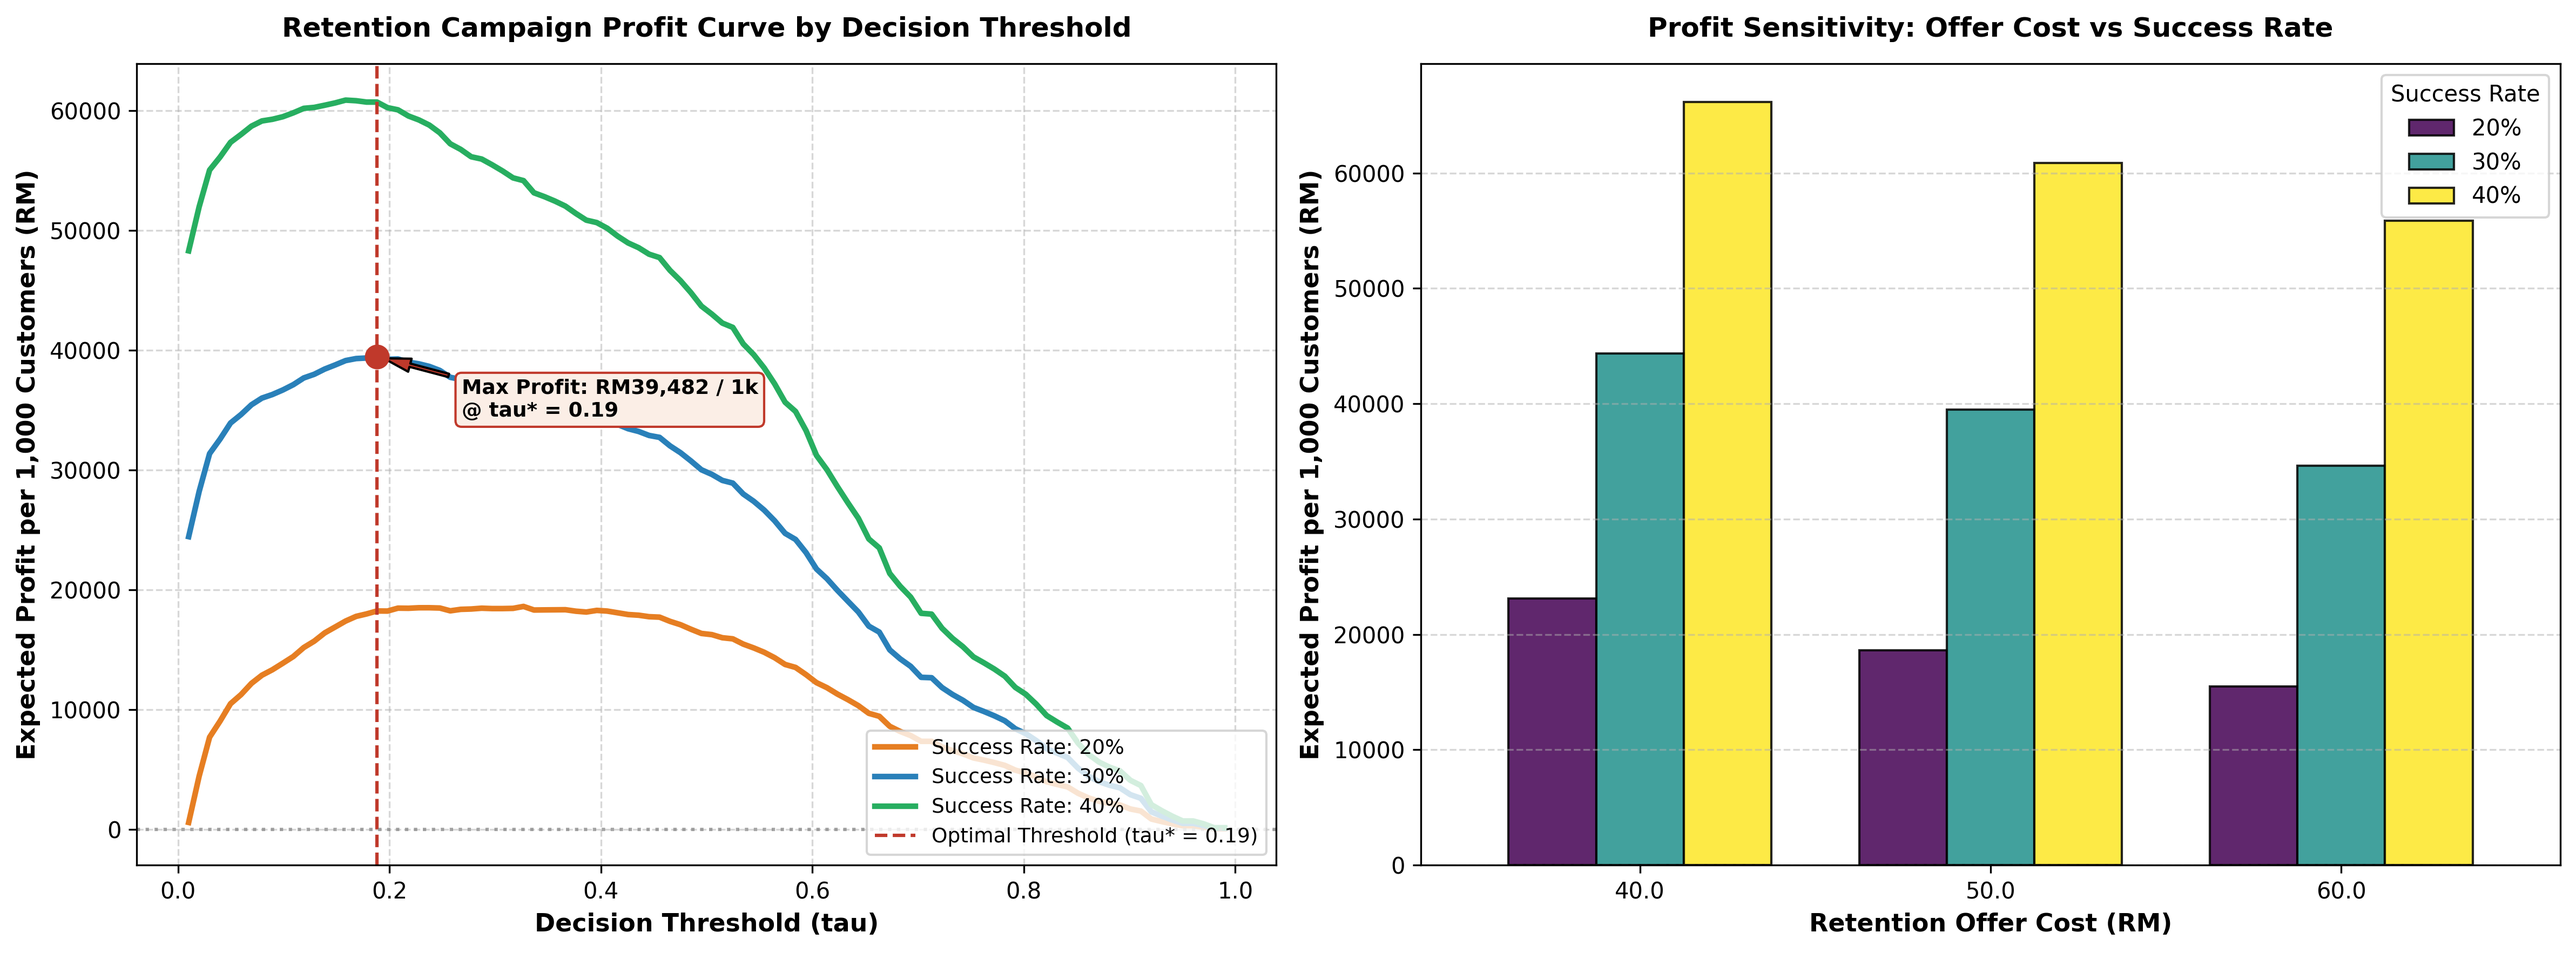
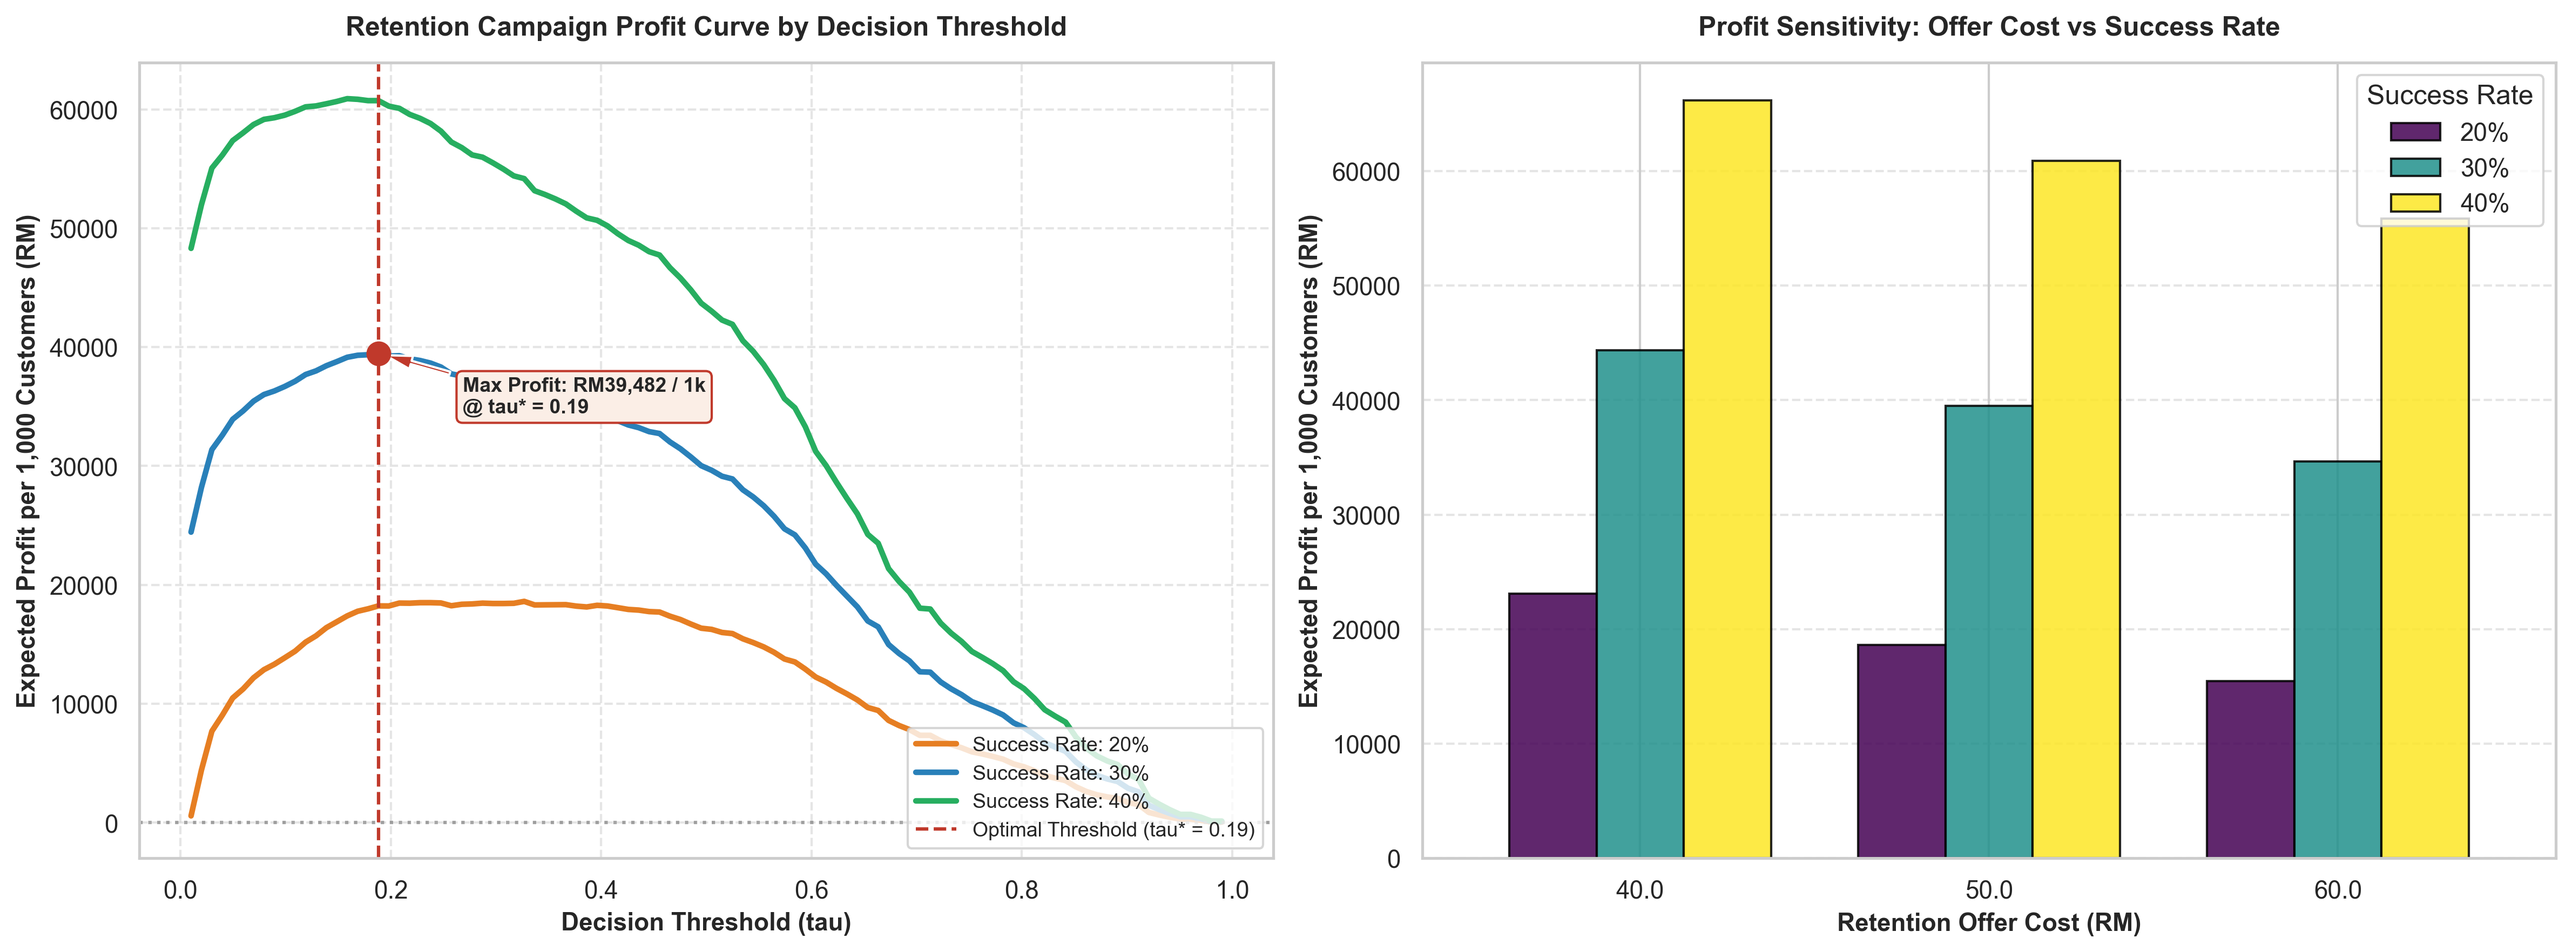
fix(lint): resolve ruff formatting and code quality checks across modules

diff --git a/src/churnguard/models/evaluate_test.py b/src/churnguard/models/evaluate_test.py
@@ -137,7 +137,7 @@ def compute_objectives_verification(
         else Path("reports") / "e11_champion_decision.json"
     )
     if e11_path.exists():
-        with open(e11_path, "r", encoding="utf-8") as f:
+        with open(e11_path, encoding="utf-8") as f:
             e11_data = json.load(f)
         mo1_passed = bool(e11_data.get("mo1_met", False))
         mo1_achieved = e11_data.get("mo1_achieved")
@@ -174,12 +174,10 @@ def compute_objectives_verification(
         m_mask = gender_arr == "Male"
         f_mask = gender_arr == "Female"
         rec_m = float(
-            np.sum((y_pred == 1) & (y_test == 1) & m_mask)
-            / max(np.sum((y_test == 1) & m_mask), 1)
+            np.sum((y_pred == 1) & (y_test == 1) & m_mask) / max(np.sum((y_test == 1) & m_mask), 1)
         )
         rec_f = float(
-            np.sum((y_pred == 1) & (y_test == 1) & f_mask)
-            / max(np.sum((y_test == 1) & f_mask), 1)
+            np.sum((y_pred == 1) & (y_test == 1) & f_mask) / max(np.sum((y_test == 1) & f_mask), 1)
         )
         gender_gap = abs(rec_m - rec_f)
         nfr7_passed = bool(gender_gap <= 0.05)
@@ -193,8 +191,7 @@ def compute_objectives_verification(
         s_mask = senior_arr == 1
         ns_mask = senior_arr == 0
         rec_s = float(
-            np.sum((y_pred == 1) & (y_test == 1) & s_mask)
-            / max(np.sum((y_test == 1) & s_mask), 1)
+            np.sum((y_pred == 1) & (y_test == 1) & s_mask) / max(np.sum((y_test == 1) & s_mask), 1)
         )
         rec_ns = float(
             np.sum((y_pred == 1) & (y_test == 1) & ns_mask)
@@ -403,9 +400,7 @@ def run_final_test_evaluation(
             "precision_at_tau": round(
                 float(precision_score(y_test, ru_pred_tau, zero_division=0)), 4
             ),
-            "recall_at_tau": round(
-                float(recall_score(y_test, ru_pred_tau, zero_division=0)), 4
-            ),
+            "recall_at_tau": round(float(recall_score(y_test, ru_pred_tau, zero_division=0)), 4),
             "f1_at_tau": round(float(f1_score(y_test, ru_pred_tau, zero_division=0)), 4),
             "profit_per_1k_customers_rm": round(
                 float(ru_profit_res["profit_per_1k_customers_rm"]), 2
@@ -429,9 +424,7 @@ def run_final_test_evaluation(
     scored_df["risk_tier"] = scored_df["churn_probability"].apply(assign_tier)
     scored_path = Path(CFG["paths"]["reports_dir"]) / "scored.csv"
     scored_path.parent.mkdir(parents=True, exist_ok=True)
-    scored_df.sort_values(by="churn_probability", ascending=False).to_csv(
-        scored_path, index=False
-    )
+    scored_df.sort_values(by="churn_probability", ascending=False).to_csv(scored_path, index=False)
 
     # Combine into comprehensive report
     final_report = {

diff --git a/src/churnguard/models/calibrate.py b/src/churnguard/models/calibrate.py
@@ -230,7 +230,10 @@ def run_calibration_redesign(
 
     # 4. Pre-registered selection rule
     candidates = {}
-    for name, m, p in [("isotonic", metrics_isotonic, oof_isotonic), ("sigmoid", metrics_sigmoid, oof_sigmoid)]:
+    for name, m, p in [
+        ("isotonic", metrics_isotonic, oof_isotonic),
+        ("sigmoid", metrics_sigmoid, oof_sigmoid),
+    ]:
         pr_drop = metrics_uncal["pr_auc"] - m["pr_auc"]
         unique_count = m["n_unique_probs"]
         if pr_drop <= 0.005 and unique_count >= 200:
@@ -255,7 +258,9 @@ def run_calibration_redesign(
             "prob_uncal": oof_uncal,
             "prob_sigmoid": oof_sigmoid,
             "prob_isotonic": oof_isotonic,
-            "prob_selected": oof_isotonic if best_method == "isotonic" else (oof_sigmoid if best_method == "sigmoid" else oof_uncal),
+            "prob_selected": oof_isotonic
+            if best_method == "isotonic"
+            else (oof_sigmoid if best_method == "sigmoid" else oof_uncal),
             "MonthlyCharges": train_val_df["MonthlyCharges"].values,
         }
     )
@@ -282,8 +287,11 @@ def run_calibration_redesign(
         "prod_calibrator": prod_calibrator,
         "oof_path": oof_out,
         "fig_path": fig_path,
-        "brier_improvement": metrics_uncal["brier_score"] - (
-            metrics_isotonic["brier_score"] if best_method == "isotonic" else metrics_sigmoid["brier_score"]
+        "brier_improvement": metrics_uncal["brier_score"]
+        - (
+            metrics_isotonic["brier_score"]
+            if best_method == "isotonic"
+            else metrics_sigmoid["brier_score"]
         ),
     }
 
@@ -328,7 +336,9 @@ def run_calibration_experiment(
     log_to_mlflow: bool = True,
 ) -> dict[str, Any]:
     """Execute calibration experiment (for backward compatibility)."""
-    return run_calibration_redesign(train_path=train_path, val_path=val_path, log_to_mlflow=log_to_mlflow)
+    return run_calibration_redesign(
+        train_path=train_path, val_path=val_path, log_to_mlflow=log_to_mlflow
+    )
 
 
 if __name__ == "__main__":
@@ -342,5 +352,7 @@ if __name__ == "__main__":
             f"{name.capitalize():14s} | Brier: {m['brier_score']:.4f} | PR-AUC: {m['pr_auc']:.4f} | "
             f"ECE: {m['ece']:.4f} | Unique: {m['n_unique_probs']}"
         )
-    print(f"\nWinning Method: {res['best_method'].upper()} (Brier Gain: +{res['brier_improvement']:.4f})")
+    print(
+        f"\nWinning Method: {res['best_method'].upper()} (Brier Gain: +{res['brier_improvement']:.4f})"
+    )
     print(f"OOF Predictions Saved: {res['oof_path']}")

diff --git a/src/churnguard/explain/fairness_audit.py b/src/churnguard/explain/fairness_audit.py
@@ -83,8 +83,12 @@ def run_e12_fairness_audit(
         f_mask = (df["gender"] == "Female").values
         rec_m = float(np.sum((preds == 1) & (y == 1) & m_mask) / np.sum((y == 1) & m_mask))
         rec_f = float(np.sum((preds == 1) & (y == 1) & f_mask) / np.sum((y == 1) & f_mask))
-        prec_m = float(np.sum((preds == 1) & (y == 1) & m_mask) / max(np.sum((preds == 1) & m_mask), 1))
-        prec_f = float(np.sum((preds == 1) & (y == 1) & f_mask) / max(np.sum((preds == 1) & f_mask), 1))
+        prec_m = float(
+            np.sum((preds == 1) & (y == 1) & m_mask) / max(np.sum((preds == 1) & m_mask), 1)
+        )
+        prec_f = float(
+            np.sum((preds == 1) & (y == 1) & f_mask) / max(np.sum((preds == 1) & f_mask), 1)
+        )
         cr_m = float(np.sum((preds == 1) & m_mask) / np.sum(m_mask))
         cr_f = float(np.sum((preds == 1) & f_mask) / np.sum(f_mask))
         gender_gap = abs(rec_m - rec_f)
@@ -94,8 +98,12 @@ def run_e12_fairness_audit(
         ns_mask = (df["SeniorCitizen"] == 0).values
         rec_s = float(np.sum((preds == 1) & (y == 1) & s_mask) / np.sum((y == 1) & s_mask))
         rec_ns = float(np.sum((preds == 1) & (y == 1) & ns_mask) / np.sum((y == 1) & ns_mask))
-        prec_s = float(np.sum((preds == 1) & (y == 1) & s_mask) / max(np.sum((preds == 1) & s_mask), 1))
-        prec_ns = float(np.sum((preds == 1) & (y == 1) & ns_mask) / max(np.sum((preds == 1) & ns_mask), 1))
+        prec_s = float(
+            np.sum((preds == 1) & (y == 1) & s_mask) / max(np.sum((preds == 1) & s_mask), 1)
+        )
+        prec_ns = float(
+            np.sum((preds == 1) & (y == 1) & ns_mask) / max(np.sum((preds == 1) & ns_mask), 1)
+        )
         cr_s = float(np.sum((preds == 1) & s_mask) / np.sum(s_mask))
         cr_ns = float(np.sum((preds == 1) & ns_mask) / np.sum(ns_mask))
         senior_gap = abs(rec_s - rec_ns)
@@ -163,10 +171,7 @@ def run_e12_fairness_audit(
         },
     }
 
-    if save_path:
-        out_path = Path(save_path)
-    else:
-        out_path = Path("reports") / "e12_fairness_audit.json"
+    out_path = Path(save_path) if save_path else Path("reports") / "e12_fairness_audit.json"
     out_path.parent.mkdir(parents=True, exist_ok=True)
     with open(out_path, "w", encoding="utf-8") as f:
         json.dump(output_payload, f, indent=2)

diff --git a/src/churnguard/models/champion_decision.py b/src/churnguard/models/champion_decision.py
@@ -49,7 +49,7 @@ def run_e11_experiment(
 
     params_path = CFG["paths"]["models_dir"] / "best_params.json"
     if params_path.exists():
-        with open(params_path, "r", encoding="utf-8") as f:
+        with open(params_path, encoding="utf-8") as f:
             best_params = json.load(f)
     else:
         best_params = {
@@ -147,10 +147,7 @@ def run_e11_experiment(
         "fold_details": fold_results,
     }
 
-    if save_path:
-        out_path = Path(save_path)
-    else:
-        out_path = Path("reports") / "e11_champion_decision.json"
+    out_path = Path(save_path) if save_path else Path("reports") / "e11_champion_decision.json"
     out_path.parent.mkdir(parents=True, exist_ok=True)
     with open(out_path, "w", encoding="utf-8") as f:
         json.dump(decision_summary, f, indent=2)
@@ -192,4 +189,6 @@ if __name__ == "__main__":
     print(f"Rule Condition:  {res['rule_thresholds']}")
     print(f"Champion:        {res['selected_champion']}")
     print(f"Runner-up:       {res['runner_up']}")
-    print(f"MO1 Status:      {'MET' if res['mo1_met'] else 'NOT MET'} (LGBM {res['mo1_achieved']:.4f} vs target {res['mo1_target']:.4f})")
+    print(
+        f"MO1 Status:      {'MET' if res['mo1_met'] else 'NOT MET'} (LGBM {res['mo1_achieved']:.4f} vs target {res['mo1_target']:.4f})"
+    )

diff --git a/src/churnguard/models/serialize.py b/src/churnguard/models/serialize.py
@@ -22,8 +22,6 @@ import pandas as pd
 from churnguard.config import CFG, SEED
 from churnguard.features.build import get_feature_lists
 from churnguard.models.calibrate import (
-    calibrate_pipeline,
-    fit_champion_pipeline,
     load_champion_params,
 )
 from churnguard.models.threshold import run_threshold_optimization
@@ -71,7 +69,9 @@ def save_final_model_artifacts(
         include_engineered=True,
         scale_numeric=False,
     )
-    runner_up_calibrated = CalibratedClassifierCV(estimator=runner_up_base, method="isotonic", cv=5)
+    runner_up_calibrated = CalibratedClassifierCV(
+        estimator=runner_up_base, method="isotonic", cv=5
+    )
     runner_up_calibrated.fit(X_train_val, y_train_val)
 
     # 4. Save joblib artifacts
@@ -160,7 +160,9 @@ def save_final_model_artifacts(
             mlflow.log_artifact(str(model_path))
             mlflow.log_artifact(str(runner_up_path))
             mlflow.log_artifact(str(meta_path))
-            mlflow.set_tags({"stage": "production", "model": "churnguard-champion", "version": "1.1.0"})
+            mlflow.set_tags(
+                {"stage": "production", "model": "churnguard-champion", "version": "1.1.0"}
+            )
 
     return model_path, meta_path
 

diff --git a/tests/test_evaluate.py b/tests/test_evaluate.py
@@ -127,9 +127,9 @@ def test_tie_aware_row_order_invariance():
         perm_recall = compute_recall_at_k(perm_y_true, perm_y_prob, k=0.20)
         perm_lift = compute_lift_at_k(perm_y_true, perm_y_prob, k=0.10)
 
-        assert perm_recall == pytest.approx(base_recall, abs=1e-12), (
-            f"Recall@20 changed under permutation seed {seed}: {perm_recall} vs {base_recall}"
-        )
-        assert perm_lift == pytest.approx(base_lift, abs=1e-12), (
-            f"Lift@10 changed under permutation seed {seed}: {perm_lift} vs {base_lift}"
-        )
+        assert perm_recall == pytest.approx(
+            base_recall, abs=1e-12
+        ), f"Recall@20 changed under permutation seed {seed}: {perm_recall} vs {base_recall}"
+        assert perm_lift == pytest.approx(
+            base_lift, abs=1e-12
+        ), f"Lift@10 changed under permutation seed {seed}: {perm_lift} vs {base_lift}"

diff --git a/src/churnguard/models/predict.py b/src/churnguard/models/predict.py
@@ -62,9 +62,14 @@ class ChurnPredictor:
 
         # Initialize SHAP explainer for reason code generation
         # Extract underlying fitted pipeline from CalibratedClassifierCV if calibrated
-        if hasattr(self.model, "calibrated_classifiers_") and len(self.model.calibrated_classifiers_) > 0:
+        if (
+            hasattr(self.model, "calibrated_classifiers_")
+            and len(self.model.calibrated_classifiers_) > 0
+        ):
             base_pipeline = self.model.calibrated_classifiers_[0].estimator
-        elif hasattr(self.model, "estimator") and not hasattr(self.model, "calibrated_classifiers_"):
+        elif hasattr(self.model, "estimator") and not hasattr(
+            self.model, "calibrated_classifiers_"
+        ):
             base_pipeline = self.model.estimator
         else:
             base_pipeline = self.model

diff --git a/tests/test_threshold.py b/tests/test_threshold.py
@@ -74,11 +74,12 @@ def test_run_threshold_optimization_integration(tmp_path):
 def test_optimal_threshold_json_has_oof_source():
     """Verify optimal_threshold.json contains source: oof_train_val (F7)."""
     import json
+
     from churnguard.config import CFG
 
     thresh_file = CFG["paths"]["models_dir"] / "optimal_threshold.json"
     assert thresh_file.exists()
-    with open(thresh_file, "r", encoding="utf-8") as f:
+    with open(thresh_file, encoding="utf-8") as f:
         meta = json.load(f)
     assert meta.get("source") == "oof_train_val"
     assert meta.get("n_samples") == 5986
